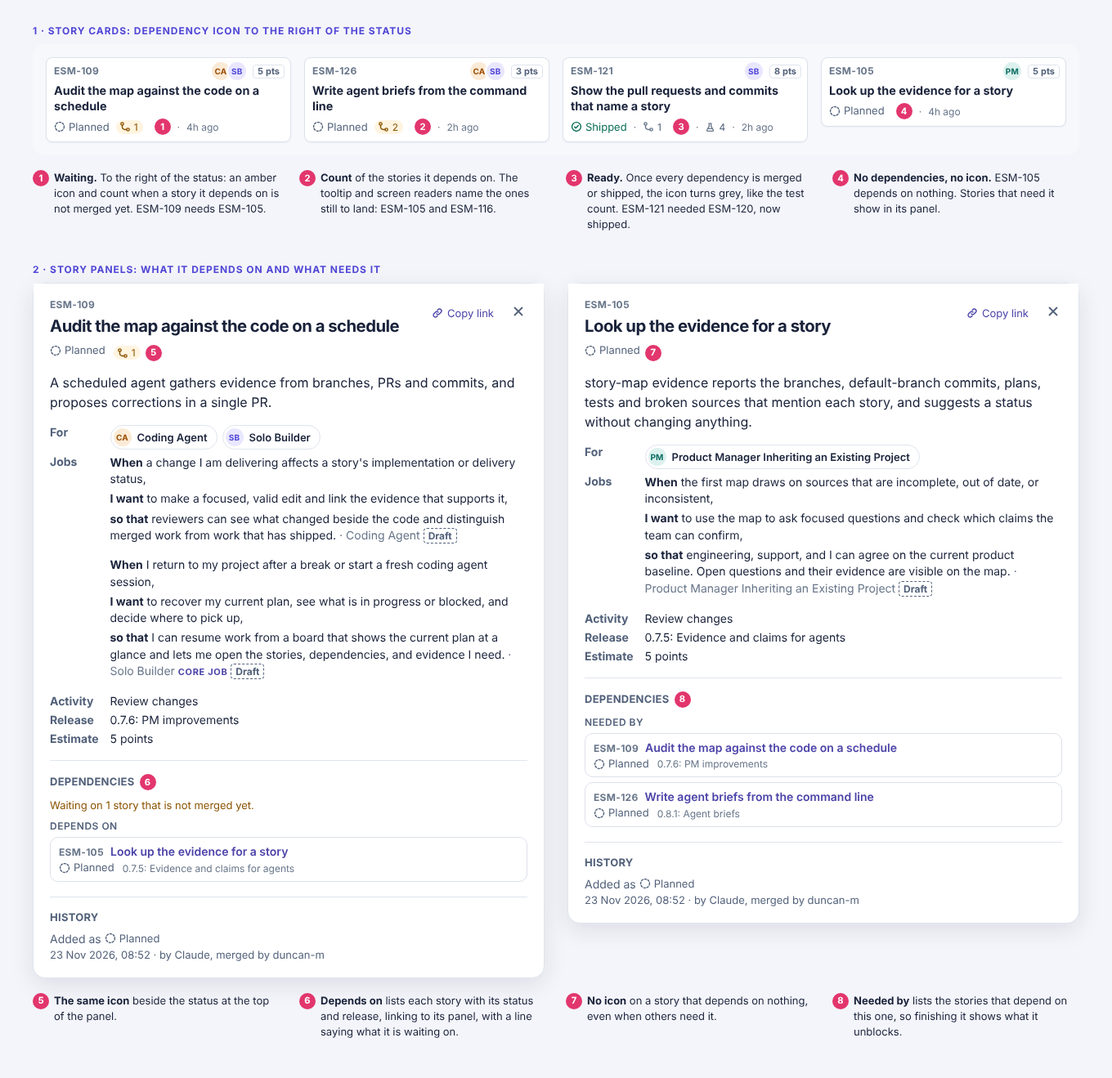
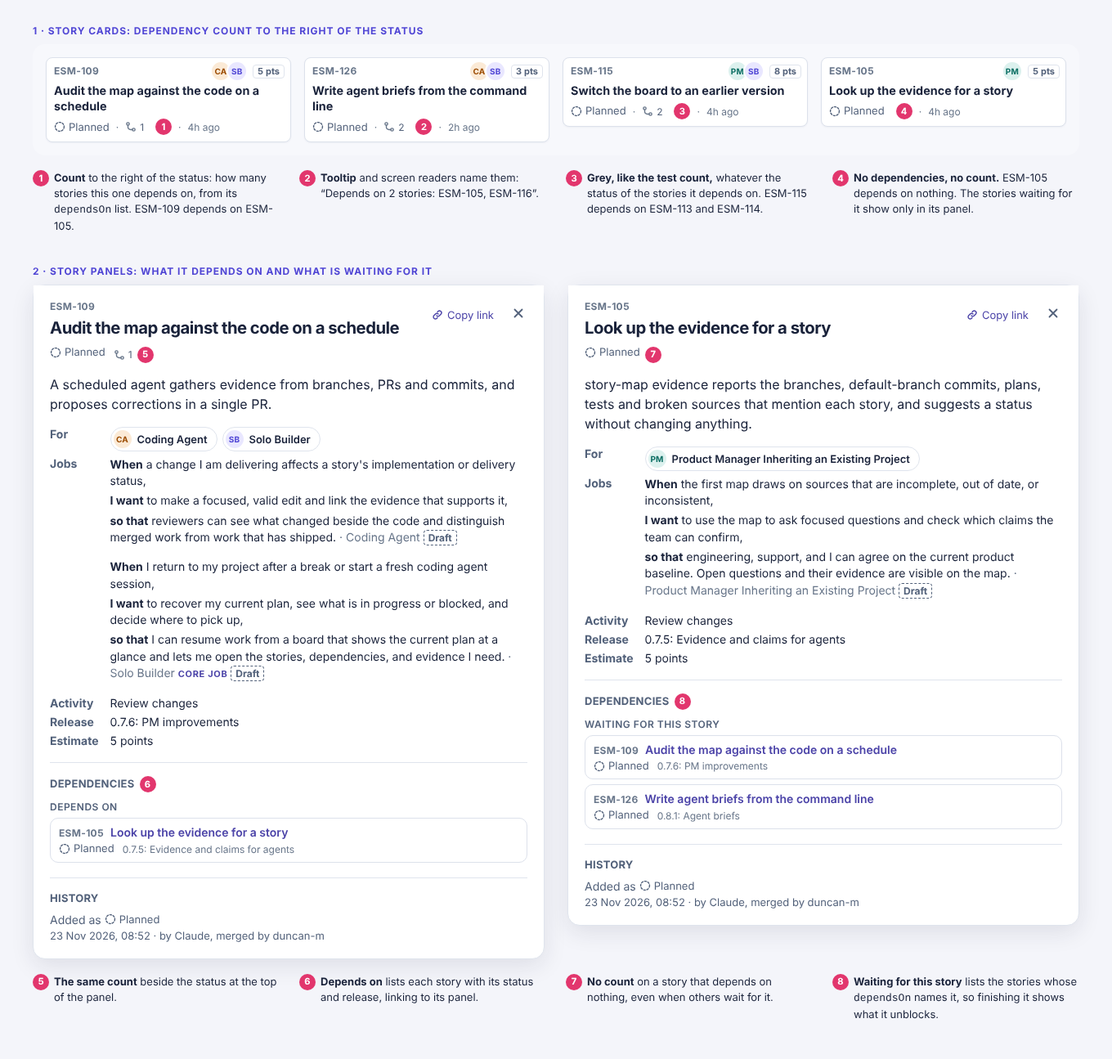
ESM-129: Record dependencies in a dependsOn field and show only the count on cards
Claude-Session: https://claude.ai/code/session_01Lq2MQRwBfoYbPH2uyBWXu4

diff --git a/docs/plans/story-dependencies-mockup.html b/docs/plans/story-dependencies-mockup.html
@@ -6,7 +6,7 @@
 <title>Story dependencies mockup</title>
 <!-- Static mockup for ESM-129 in docs/plans/story-dependencies.md. The board markup is the real board rendered from this
      product's map, history and tests index, with the Changes, Tests and Engineering sections left out of the panels. The dependency icon, the Dependencies section and their styles below are proposed.
-     The dependencies are real ones from the stories' notes and plans. -->
+     The dependencies are real ones from the stories' notes and plans, as a dependsOn field would record them. -->
 <link rel="stylesheet" href="../../styles.css">
 <style>
   body { margin: 0; padding: 32px 40px 48px; background: #f4f5fa; font-family: Inter, system-ui, -apple-system, "Segoe UI", sans-serif; }
@@ -26,11 +26,7 @@
   .esm-card-deps { display: inline-flex; align-items: center; gap: 4px; color: var(--esm-muted); font-size: .75rem; }
   .esm-card-meta .esm-card-deps::before { content: "·"; margin-right: 4px; color: var(--esm-faint); }
   .esm-card-deps .esm-icon { color: var(--esm-faint); }
-  .esm-card-deps[data-waiting] { padding: 1px 6px 1px 4px; border-radius: 999px; background: var(--esm-stalled-bg); color: var(--esm-stalled); }
-  .esm-card-deps[data-waiting] .esm-icon { color: currentColor; }
-  .esm-card-meta .esm-card-deps[data-waiting]::before { content: none; }
   .esm-detail > .esm-card-deps { margin-left: 10px; vertical-align: middle; }
-  .esm-deps-note { margin: 0 0 10px; color: var(--esm-stalled); font-size: .8125rem; }
   .esm-deps-heading { margin: 12px 0 6px; color: var(--esm-muted); font-size: .75rem; font-weight: 600; letter-spacing: .04em; text-transform: uppercase; }
   .esm-deps-heading:first-of-type { margin-top: 0; }
   .esm-deps-list { display: grid; gap: 6px; margin: 0; padding: 0; list-style: none; }
@@ -43,27 +39,27 @@
 </head>
 <body>
 <div class="mock-section">
-  <p class="mock-label">1 · Story cards: dependency icon to the right of the status</p>
-  <div class="mock-cards esm-board" data-theme="light"><div class="mock-card"><button type="button" class="esm-card" id="esm-story-ESM-109" aria-haspopup="dialog" popovertarget="_R_1a_-story-23"><span class="esm-card-head"><span class="esm-card-id">ESM-109</span><span class="esm-card-tags"><span class="esm-avatars" title="For Coding Agent and Solo Builder"><span class="esm-avatar" data-persona="2" aria-hidden="true">CA</span><span class="esm-avatar" data-persona="0" aria-hidden="true">SB</span><span class="esm-visually-hidden">For Coding Agent and Solo Builder</span></span><span class="esm-estimate" title="Estimate: 5 points"><span aria-hidden="true">5 pts</span><span class="esm-visually-hidden">Estimate: 5 points</span></span></span></span><span class="esm-card-title">Audit the map against the code on a schedule</span><span class="esm-card-meta"><span class="esm-status" data-status="planned"><svg class="esm-icon" width="14" height="14" viewBox="0 0 16 16" fill="none" stroke="currentColor" stroke-width="1.6" stroke-linecap="round" stroke-linejoin="round" aria-hidden="true"><circle cx="8" cy="8" r="6.2" stroke-dasharray="2.4 2.2"></circle></svg>Planned</span><span class="esm-card-deps" data-waiting="" title="Depends on 1 story. Waiting on ESM-105, not merged yet."><svg class="esm-icon" width="14" height="14" viewBox="0 0 16 16" fill="none" stroke="currentColor" stroke-width="1.6" stroke-linecap="round" stroke-linejoin="round" aria-hidden="true"><circle cx="4" cy="4" r="1.9"></circle><circle cx="12" cy="12" r="1.9"></circle><path d="M4 5.9v2.6A3.5 3.5 0 0 0 7.5 12h2.6"></path></svg><span aria-hidden="true">1</span><span class="esm-visually-hidden">Depends on 1 story. Waiting on ESM-105, not merged yet.</span></span><span class="mock-callout">1</span><time class="esm-changed" datetime="2026-11-23T08:52:14.000Z" title="23 Nov 2026, 08:52">4h ago</time></span></button></div><div class="mock-card"><button type="button" class="esm-card" id="esm-story-ESM-126" aria-haspopup="dialog" popovertarget="_R_1a_-story-79"><span class="esm-card-head"><span class="esm-card-id">ESM-126</span><span class="esm-card-tags"><span class="esm-avatars" title="For Coding Agent and Solo Builder"><span class="esm-avatar" data-persona="2" aria-hidden="true">CA</span><span class="esm-avatar" data-persona="0" aria-hidden="true">SB</span><span class="esm-visually-hidden">For Coding Agent and Solo Builder</span></span><span class="esm-estimate" title="Estimate: 3 points"><span aria-hidden="true">3 pts</span><span class="esm-visually-hidden">Estimate: 3 points</span></span></span></span><span class="esm-card-title">Write agent briefs from the command line</span><span class="esm-card-meta"><span class="esm-status" data-status="planned"><svg class="esm-icon" width="14" height="14" viewBox="0 0 16 16" fill="none" stroke="currentColor" stroke-width="1.6" stroke-linecap="round" stroke-linejoin="round" aria-hidden="true"><circle cx="8" cy="8" r="6.2" stroke-dasharray="2.4 2.2"></circle></svg>Planned</span><span class="esm-card-deps" data-waiting="" title="Depends on 2 stories. Waiting on ESM-105, ESM-116, not merged yet."><svg class="esm-icon" width="14" height="14" viewBox="0 0 16 16" fill="none" stroke="currentColor" stroke-width="1.6" stroke-linecap="round" stroke-linejoin="round" aria-hidden="true"><circle cx="4" cy="4" r="1.9"></circle><circle cx="12" cy="12" r="1.9"></circle><path d="M4 5.9v2.6A3.5 3.5 0 0 0 7.5 12h2.6"></path></svg><span aria-hidden="true">2</span><span class="esm-visually-hidden">Depends on 2 stories. Waiting on ESM-105, ESM-116, not merged yet.</span></span><span class="mock-callout">2</span><time class="esm-changed" datetime="2026-11-23T10:49:05.000Z" title="23 Nov 2026, 10:49">2h ago</time></span></button></div><div class="mock-card"><button type="button" class="esm-card" id="esm-story-ESM-121" aria-haspopup="dialog" popovertarget="_R_1a_-story-57"><span class="esm-card-head"><span class="esm-card-id">ESM-121</span><span class="esm-card-tags"><span class="esm-avatars" title="For Solo Builder"><span class="esm-avatar" data-persona="0" aria-hidden="true">SB</span><span class="esm-visually-hidden">For Solo Builder</span></span><span class="esm-estimate" title="Estimate: 8 points"><span aria-hidden="true">8 pts</span><span class="esm-visually-hidden">Estimate: 8 points</span></span></span></span><span class="esm-card-title">Show the pull requests and commits that name a story</span><span class="esm-card-meta"><span class="esm-status" data-status="shipped"><svg class="esm-icon" width="14" height="14" viewBox="0 0 16 16" fill="none" stroke="currentColor" stroke-width="1.6" stroke-linecap="round" stroke-linejoin="round" aria-hidden="true"><circle cx="8" cy="8" r="6.2"></circle><path d="m5.3 8.2 1.8 1.8 3.6-3.7"></path></svg>Shipped</span><span class="esm-card-deps" title="Depends on 1 story, all merged or shipped."><svg class="esm-icon" width="14" height="14" viewBox="0 0 16 16" fill="none" stroke="currentColor" stroke-width="1.6" stroke-linecap="round" stroke-linejoin="round" aria-hidden="true"><circle cx="4" cy="4" r="1.9"></circle><circle cx="12" cy="12" r="1.9"></circle><path d="M4 5.9v2.6A3.5 3.5 0 0 0 7.5 12h2.6"></path></svg><span aria-hidden="true">1</span><span class="esm-visually-hidden">Depends on 1 story, all merged or shipped.</span></span><span class="mock-callout">3</span><span class="esm-card-tests" title="4 tests"><svg class="esm-icon" width="13" height="13" viewBox="0 0 16 16" fill="none" stroke="currentColor" stroke-width="1.6" stroke-linecap="round" stroke-linejoin="round" aria-hidden="true"><path d="M6 2.5h4M6.6 2.5v4.2L3.2 12.4a1 1 0 0 0 .9 1.6h7.8a1 1 0 0 0 .9-1.6L9.4 6.7V2.5"></path><path d="M4.8 10.2h6.4"></path></svg><span aria-hidden="true">4</span><span class="esm-visually-hidden">4 tests</span></span><time class="esm-changed" datetime="2026-11-23T10:28:45.000Z" title="23 Nov 2026, 10:28">2h ago</time></span></button></div><div class="mock-card"><button type="button" class="esm-card" id="esm-story-ESM-105" aria-haspopup="dialog" popovertarget="_R_1a_-story-36"><span class="esm-card-head"><span class="esm-card-id">ESM-105</span><span class="esm-card-tags"><span class="esm-avatars" title="For Product Manager Inheriting an Existing Project"><span class="esm-avatar" data-persona="1" aria-hidden="true">PM</span><span class="esm-visually-hidden">For Product Manager Inheriting an Existing Project</span></span><span class="esm-estimate" title="Estimate: 5 points"><span aria-hidden="true">5 pts</span><span class="esm-visually-hidden">Estimate: 5 points</span></span></span></span><span class="esm-card-title">Look up the evidence for a story</span><span class="esm-card-meta"><span class="esm-status" data-status="planned"><svg class="esm-icon" width="14" height="14" viewBox="0 0 16 16" fill="none" stroke="currentColor" stroke-width="1.6" stroke-linecap="round" stroke-linejoin="round" aria-hidden="true"><circle cx="8" cy="8" r="6.2" stroke-dasharray="2.4 2.2"></circle></svg>Planned</span><span class="mock-callout">4</span><time class="esm-changed" datetime="2026-11-23T08:52:14.000Z" title="23 Nov 2026, 08:52">4h ago</time></span></button></div></div>
+  <p class="mock-label">1 · Story cards: dependency count to the right of the status</p>
+  <div class="mock-cards esm-board" data-theme="light"><div class="mock-card"><button type="button" class="esm-card" id="esm-story-ESM-109" aria-haspopup="dialog" popovertarget="_R_1a_-story-23"><span class="esm-card-head"><span class="esm-card-id">ESM-109</span><span class="esm-card-tags"><span class="esm-avatars" title="For Coding Agent and Solo Builder"><span class="esm-avatar" data-persona="2" aria-hidden="true">CA</span><span class="esm-avatar" data-persona="0" aria-hidden="true">SB</span><span class="esm-visually-hidden">For Coding Agent and Solo Builder</span></span><span class="esm-estimate" title="Estimate: 5 points"><span aria-hidden="true">5 pts</span><span class="esm-visually-hidden">Estimate: 5 points</span></span></span></span><span class="esm-card-title">Audit the map against the code on a schedule</span><span class="esm-card-meta"><span class="esm-status" data-status="planned"><svg class="esm-icon" width="14" height="14" viewBox="0 0 16 16" fill="none" stroke="currentColor" stroke-width="1.6" stroke-linecap="round" stroke-linejoin="round" aria-hidden="true"><circle cx="8" cy="8" r="6.2" stroke-dasharray="2.4 2.2"></circle></svg>Planned</span><span class="esm-card-deps" title="Depends on 1 story: ESM-105"><svg class="esm-icon" width="14" height="14" viewBox="0 0 16 16" fill="none" stroke="currentColor" stroke-width="1.6" stroke-linecap="round" stroke-linejoin="round" aria-hidden="true"><circle cx="4" cy="4" r="1.9"></circle><circle cx="12" cy="12" r="1.9"></circle><path d="M4 5.9v2.6A3.5 3.5 0 0 0 7.5 12h2.6"></path></svg><span aria-hidden="true">1</span><span class="esm-visually-hidden">Depends on 1 story: ESM-105</span></span><span class="mock-callout">1</span><time class="esm-changed" datetime="2026-11-23T08:52:14.000Z" title="23 Nov 2026, 08:52">4h ago</time></span></button></div><div class="mock-card"><button type="button" class="esm-card" id="esm-story-ESM-126" aria-haspopup="dialog" popovertarget="_R_1a_-story-79"><span class="esm-card-head"><span class="esm-card-id">ESM-126</span><span class="esm-card-tags"><span class="esm-avatars" title="For Coding Agent and Solo Builder"><span class="esm-avatar" data-persona="2" aria-hidden="true">CA</span><span class="esm-avatar" data-persona="0" aria-hidden="true">SB</span><span class="esm-visually-hidden">For Coding Agent and Solo Builder</span></span><span class="esm-estimate" title="Estimate: 3 points"><span aria-hidden="true">3 pts</span><span class="esm-visually-hidden">Estimate: 3 points</span></span></span></span><span class="esm-card-title">Write agent briefs from the command line</span><span class="esm-card-meta"><span class="esm-status" data-status="planned"><svg class="esm-icon" width="14" height="14" viewBox="0 0 16 16" fill="none" stroke="currentColor" stroke-width="1.6" stroke-linecap="round" stroke-linejoin="round" aria-hidden="true"><circle cx="8" cy="8" r="6.2" stroke-dasharray="2.4 2.2"></circle></svg>Planned</span><span class="esm-card-deps" title="Depends on 2 stories: ESM-105, ESM-116"><svg class="esm-icon" width="14" height="14" viewBox="0 0 16 16" fill="none" stroke="currentColor" stroke-width="1.6" stroke-linecap="round" stroke-linejoin="round" aria-hidden="true"><circle cx="4" cy="4" r="1.9"></circle><circle cx="12" cy="12" r="1.9"></circle><path d="M4 5.9v2.6A3.5 3.5 0 0 0 7.5 12h2.6"></path></svg><span aria-hidden="true">2</span><span class="esm-visually-hidden">Depends on 2 stories: ESM-105, ESM-116</span></span><span class="mock-callout">2</span><time class="esm-changed" datetime="2026-11-23T10:49:05.000Z" title="23 Nov 2026, 10:49">2h ago</time></span></button></div><div class="mock-card"><button type="button" class="esm-card" id="esm-story-ESM-115" aria-haspopup="dialog" popovertarget="_R_1a_-story-30"><span class="esm-card-head"><span class="esm-card-id">ESM-115</span><span class="esm-card-tags"><span class="esm-avatars" title="For Product Manager Inheriting an Existing Project and Solo Builder"><span class="esm-avatar" data-persona="1" aria-hidden="true">PM</span><span class="esm-avatar" data-persona="0" aria-hidden="true">SB</span><span class="esm-visually-hidden">For Product Manager Inheriting an Existing Project and Solo Builder</span></span><span class="esm-estimate" title="Estimate: 8 points"><span aria-hidden="true">8 pts</span><span class="esm-visually-hidden">Estimate: 8 points</span></span></span></span><span class="esm-card-title">Switch the board to an earlier version</span><span class="esm-card-meta"><span class="esm-status" data-status="planned"><svg class="esm-icon" width="14" height="14" viewBox="0 0 16 16" fill="none" stroke="currentColor" stroke-width="1.6" stroke-linecap="round" stroke-linejoin="round" aria-hidden="true"><circle cx="8" cy="8" r="6.2" stroke-dasharray="2.4 2.2"></circle></svg>Planned</span><span class="esm-card-deps" title="Depends on 2 stories: ESM-113, ESM-114"><svg class="esm-icon" width="14" height="14" viewBox="0 0 16 16" fill="none" stroke="currentColor" stroke-width="1.6" stroke-linecap="round" stroke-linejoin="round" aria-hidden="true"><circle cx="4" cy="4" r="1.9"></circle><circle cx="12" cy="12" r="1.9"></circle><path d="M4 5.9v2.6A3.5 3.5 0 0 0 7.5 12h2.6"></path></svg><span aria-hidden="true">2</span><span class="esm-visually-hidden">Depends on 2 stories: ESM-113, ESM-114</span></span><span class="mock-callout">3</span><time class="esm-changed" datetime="2026-11-23T08:52:14.000Z" title="23 Nov 2026, 08:52">4h ago</time></span></button></div><div class="mock-card"><button type="button" class="esm-card" id="esm-story-ESM-105" aria-haspopup="dialog" popovertarget="_R_1a_-story-36"><span class="esm-card-head"><span class="esm-card-id">ESM-105</span><span class="esm-card-tags"><span class="esm-avatars" title="For Product Manager Inheriting an Existing Project"><span class="esm-avatar" data-persona="1" aria-hidden="true">PM</span><span class="esm-visually-hidden">For Product Manager Inheriting an Existing Project</span></span><span class="esm-estimate" title="Estimate: 5 points"><span aria-hidden="true">5 pts</span><span class="esm-visually-hidden">Estimate: 5 points</span></span></span></span><span class="esm-card-title">Look up the evidence for a story</span><span class="esm-card-meta"><span class="esm-status" data-status="planned"><svg class="esm-icon" width="14" height="14" viewBox="0 0 16 16" fill="none" stroke="currentColor" stroke-width="1.6" stroke-linecap="round" stroke-linejoin="round" aria-hidden="true"><circle cx="8" cy="8" r="6.2" stroke-dasharray="2.4 2.2"></circle></svg>Planned</span><span class="mock-callout">4</span><time class="esm-changed" datetime="2026-11-23T08:52:14.000Z" title="23 Nov 2026, 08:52">4h ago</time></span></button></div></div>
   <ol class="mock-legend">
-    <li><span class="mock-callout">1</span><span><b>Waiting.</b> To the right of the status: an amber icon and count when a story it depends on is not merged yet. ESM-109 needs ESM-105.</span></li>
-    <li><span class="mock-callout">2</span><span><b>Count</b> of the stories it depends on. The tooltip and screen readers name the ones still to land: ESM-105 and ESM-116.</span></li>
-    <li><span class="mock-callout">3</span><span><b>Ready.</b> Once every dependency is merged or shipped, the icon turns grey, like the test count. ESM-121 needed ESM-120, now shipped.</span></li>
-    <li><span class="mock-callout">4</span><span><b>No dependencies, no icon.</b> ESM-105 depends on nothing. Stories that need it show in its panel.</span></li>
+    <li><span class="mock-callout">1</span><span><b>Count</b> to the right of the status: how many stories this one depends on, from its <code>dependsOn</code> list. ESM-109 depends on ESM-105.</span></li>
+    <li><span class="mock-callout">2</span><span><b>Tooltip</b> and screen readers name them: “Depends on 2 stories: ESM-105, ESM-116”.</span></li>
+    <li><span class="mock-callout">3</span><span><b>Grey, like the test count,</b> whatever the status of the stories it depends on. ESM-115 depends on ESM-113 and ESM-114.</span></li>
+    <li><span class="mock-callout">4</span><span><b>No dependencies, no count.</b> ESM-105 depends on nothing. The stories waiting for it show only in its panel.</span></li>
   </ol>
 </div>
 
 <div class="mock-section">
-  <p class="mock-label">2 · Story panels: what it depends on and what needs it</p>
+  <p class="mock-label">2 · Story panels: what it depends on and what is waiting for it</p>
   <div class="mock-pair esm-board" data-theme="light">
-    <div class="esm-detail" id="_R_1a_-story-23" role="dialog" aria-labelledby="_R_1a_-story-23-title"><div class="esm-detail-head"><div><p class="esm-card-id">ESM-109</p><h3 id="_R_1a_-story-23-title">Audit the map against the code on a schedule</h3></div><div class="esm-detail-actions"><a class="esm-copy-link" href="?view=internal&amp;story=ESM-109#esm-story-ESM-109" data-esm-copy-link="" title="Link to this story"><svg class="esm-icon" width="14" height="14" viewBox="0 0 16 16" fill="none" stroke="currentColor" stroke-width="1.6" stroke-linecap="round" stroke-linejoin="round" aria-hidden="true"><path d="M6.8 9.2a2.8 2.8 0 0 0 4 0l2-2a2.8 2.8 0 0 0-4-4l-.7.7M9.2 6.8a2.8 2.8 0 0 0-4 0l-2 2a2.8 2.8 0 0 0 4 4l.7-.7"></path></svg><span data-esm-copy-label="">Copy link</span><span class="esm-visually-hidden"> to this story</span></a><button type="button" class="esm-close" aria-label="Close" popovertarget="_R_1a_-story-23" popovertargetaction="hide"><svg class="esm-icon" width="18" height="18" viewBox="0 0 16 16" fill="none" stroke="currentColor" stroke-width="1.6" stroke-linecap="round" aria-hidden="true"><path d="m4 4 8 8M12 4l-8 8"></path></svg></button></div></div><span class="esm-status" data-status="planned"><svg class="esm-icon" width="14" height="14" viewBox="0 0 16 16" fill="none" stroke="currentColor" stroke-width="1.6" stroke-linecap="round" stroke-linejoin="round" aria-hidden="true"><circle cx="8" cy="8" r="6.2" stroke-dasharray="2.4 2.2"></circle></svg>Planned</span><span class="esm-card-deps" data-waiting="" title="Depends on 1 story. Waiting on ESM-105, not merged yet."><svg class="esm-icon" width="14" height="14" viewBox="0 0 16 16" fill="none" stroke="currentColor" stroke-width="1.6" stroke-linecap="round" stroke-linejoin="round" aria-hidden="true"><circle cx="4" cy="4" r="1.9"></circle><circle cx="12" cy="12" r="1.9"></circle><path d="M4 5.9v2.6A3.5 3.5 0 0 0 7.5 12h2.6"></path></svg><span aria-hidden="true">1</span><span class="esm-visually-hidden">Depends on 1 story. Waiting on ESM-105, not merged yet.</span></span><span class="mock-callout">5</span><p class="esm-detail-summary">A scheduled agent gathers evidence from branches, PRs and commits, and proposes corrections in a single PR.</p><dl class="esm-detail-context"><dt>For</dt><dd class="esm-persona-row"><button type="button" class="esm-persona-chip" aria-haspopup="dialog" popovertarget="_R_1a_-persona-2"><span class="esm-avatar" data-persona="2" aria-hidden="true">CA</span>Coding Agent</button><button type="button" class="esm-persona-chip" aria-haspopup="dialog" popovertarget="_R_1a_-persona-0"><span class="esm-avatar" data-persona="0" aria-hidden="true">SB</span>Solo Builder</button></dd><dt>Jobs</dt><dd><ul class="esm-story-jobs"><li><span class="esm-job-line"><b>When</b> a change I am delivering affects a story's implementation or delivery status,</span><span class="esm-job-line"><b>I want</b> to make a focused, valid edit and link the evidence that supports it,</span><b>so that</b> reviewers can see what changed beside the code and distinguish merged work from work that has shipped. <span class="esm-story-job-persona">· Coding Agent</span> <span class="esm-draft" title="Drafted by an agent and not yet confirmed">Draft</span></li><li><span class="esm-job-line"><b>When</b> I return to my project after a break or start a fresh coding agent session,</span><span class="esm-job-line"><b>I want</b> to recover my current plan, see what is in progress or blocked, and decide where to pick up,</span><b>so that</b> I can resume work from a board that shows the current plan at a glance and lets me open the stories, dependencies, and evidence I need. <span class="esm-story-job-persona">· Solo Builder</span> <span class="esm-core-label">Core job</span> <span class="esm-draft" title="Drafted by an agent and not yet confirmed">Draft</span></li></ul></dd><dt>Activity</dt><dd>Review changes</dd><dt>Release</dt><dd>0.7.6: PM improvements</dd><dt>Estimate</dt><dd>5 points</dd></dl><section class="esm-detail-section esm-deps" aria-labelledby="_R_1a_-story-23-deps"><h4 id="_R_1a_-story-23-deps">Dependencies<span class="mock-callout">6</span></h4><p class="esm-deps-note">Waiting on 1 story that is not merged yet.</p><h5 class="esm-deps-heading" id="_R_1a_-story-23-deps-on">Depends on</h5><ul class="esm-deps-list" aria-labelledby="_R_1a_-story-23-deps-on"><li><a class="esm-dep-link" href="?view=internal&amp;story=ESM-105#esm-story-ESM-105"><span class="esm-card-id">ESM-105</span><span class="esm-dep-title">Look up the evidence for a story</span></a><span class="esm-dep-meta"><span class="esm-status" data-status="planned"><svg class="esm-icon" width="14" height="14" viewBox="0 0 16 16" fill="none" stroke="currentColor" stroke-width="1.6" stroke-linecap="round" stroke-linejoin="round" aria-hidden="true"><circle cx="8" cy="8" r="6.2" stroke-dasharray="2.4 2.2"></circle></svg>Planned</span><span class="esm-dep-release">0.7.5: Evidence and claims for agents</span></span></li></ul></section><section class="esm-detail-section"><h4 id="_R_1a_-story-23-history">History</h4><ol class="esm-history" aria-labelledby="_R_1a_-story-23-history"><li><span class="esm-history-change">Added as <span class="esm-status" data-status="planned"><svg class="esm-icon" width="14" height="14" viewBox="0 0 16 16" fill="none" stroke="currentColor" stroke-width="1.6" stroke-linecap="round" stroke-linejoin="round" aria-hidden="true"><circle cx="8" cy="8" r="6.2" stroke-dasharray="2.4 2.2"></circle></svg>Planned</span></span><span class="esm-history-meta"><time datetime="2026-11-23T08:52:14.000Z">23 Nov 2026, 08:52</time> · by Claude, merged by duncan-m</span></li></ol></section></div>
-    <div class="esm-detail" id="_R_1a_-story-36" role="dialog" aria-labelledby="_R_1a_-story-36-title"><div class="esm-detail-head"><div><p class="esm-card-id">ESM-105</p><h3 id="_R_1a_-story-36-title">Look up the evidence for a story</h3></div><div class="esm-detail-actions"><a class="esm-copy-link" href="?view=internal&amp;story=ESM-105#esm-story-ESM-105" data-esm-copy-link="" title="Link to this story"><svg class="esm-icon" width="14" height="14" viewBox="0 0 16 16" fill="none" stroke="currentColor" stroke-width="1.6" stroke-linecap="round" stroke-linejoin="round" aria-hidden="true"><path d="M6.8 9.2a2.8 2.8 0 0 0 4 0l2-2a2.8 2.8 0 0 0-4-4l-.7.7M9.2 6.8a2.8 2.8 0 0 0-4 0l-2 2a2.8 2.8 0 0 0 4 4l.7-.7"></path></svg><span data-esm-copy-label="">Copy link</span><span class="esm-visually-hidden"> to this story</span></a><button type="button" class="esm-close" aria-label="Close" popovertarget="_R_1a_-story-36" popovertargetaction="hide"><svg class="esm-icon" width="18" height="18" viewBox="0 0 16 16" fill="none" stroke="currentColor" stroke-width="1.6" stroke-linecap="round" aria-hidden="true"><path d="m4 4 8 8M12 4l-8 8"></path></svg></button></div></div><span class="esm-status" data-status="planned"><svg class="esm-icon" width="14" height="14" viewBox="0 0 16 16" fill="none" stroke="currentColor" stroke-width="1.6" stroke-linecap="round" stroke-linejoin="round" aria-hidden="true"><circle cx="8" cy="8" r="6.2" stroke-dasharray="2.4 2.2"></circle></svg>Planned</span><span class="mock-callout">7</span><p class="esm-detail-summary">story-map evidence reports the branches, default-branch commits, plans, tests and broken sources that mention each story, and suggests a status without changing anything.</p><dl class="esm-detail-context"><dt>For</dt><dd class="esm-persona-row"><button type="button" class="esm-persona-chip" aria-haspopup="dialog" popovertarget="_R_1a_-persona-1"><span class="esm-avatar" data-persona="1" aria-hidden="true">PM</span>Product Manager Inheriting an Existing Project</button></dd><dt>Jobs</dt><dd><ul class="esm-story-jobs"><li><span class="esm-job-line"><b>When</b> the first map draws on sources that are incomplete, out of date, or inconsistent,</span><span class="esm-job-line"><b>I want</b> to use the map to ask focused questions and check which claims the team can confirm,</span><b>so that</b> engineering, support, and I can agree on the current product baseline. Open questions and their evidence are visible on the map. <span class="esm-story-job-persona">· Product Manager Inheriting an Existing Project</span> <span class="esm-draft" title="Drafted by an agent and not yet confirmed">Draft</span></li></ul></dd><dt>Activity</dt><dd>Review changes</dd><dt>Release</dt><dd>0.7.5: Evidence and claims for agents</dd><dt>Estimate</dt><dd>5 points</dd></dl><section class="esm-detail-section esm-deps" aria-labelledby="_R_1a_-story-36-deps"><h4 id="_R_1a_-story-36-deps">Dependencies<span class="mock-callout">8</span></h4><h5 class="esm-deps-heading" id="_R_1a_-story-36-deps-by">Needed by</h5><ul class="esm-deps-list" aria-labelledby="_R_1a_-story-36-deps-by"><li><a class="esm-dep-link" href="?view=internal&amp;story=ESM-109#esm-story-ESM-109"><span class="esm-card-id">ESM-109</span><span class="esm-dep-title">Audit the map against the code on a schedule</span></a><span class="esm-dep-meta"><span class="esm-status" data-status="planned"><svg class="esm-icon" width="14" height="14" viewBox="0 0 16 16" fill="none" stroke="currentColor" stroke-width="1.6" stroke-linecap="round" stroke-linejoin="round" aria-hidden="true"><circle cx="8" cy="8" r="6.2" stroke-dasharray="2.4 2.2"></circle></svg>Planned</span><span class="esm-dep-release">0.7.6: PM improvements</span></span></li><li><a class="esm-dep-link" href="?view=internal&amp;story=ESM-126#esm-story-ESM-126"><span class="esm-card-id">ESM-126</span><span class="esm-dep-title">Write agent briefs from the command line</span></a><span class="esm-dep-meta"><span class="esm-status" data-status="planned"><svg class="esm-icon" width="14" height="14" viewBox="0 0 16 16" fill="none" stroke="currentColor" stroke-width="1.6" stroke-linecap="round" stroke-linejoin="round" aria-hidden="true"><circle cx="8" cy="8" r="6.2" stroke-dasharray="2.4 2.2"></circle></svg>Planned</span><span class="esm-dep-release">0.8.1: Agent briefs</span></span></li></ul></section><section class="esm-detail-section"><h4 id="_R_1a_-story-36-history">History</h4><ol class="esm-history" aria-labelledby="_R_1a_-story-36-history"><li><span class="esm-history-change">Added as <span class="esm-status" data-status="planned"><svg class="esm-icon" width="14" height="14" viewBox="0 0 16 16" fill="none" stroke="currentColor" stroke-width="1.6" stroke-linecap="round" stroke-linejoin="round" aria-hidden="true"><circle cx="8" cy="8" r="6.2" stroke-dasharray="2.4 2.2"></circle></svg>Planned</span></span><span class="esm-history-meta"><time datetime="2026-11-23T08:52:14.000Z">23 Nov 2026, 08:52</time> · by Claude, merged by duncan-m</span></li></ol></section></div>
+    <div class="esm-detail" id="_R_1a_-story-23" role="dialog" aria-labelledby="_R_1a_-story-23-title"><div class="esm-detail-head"><div><p class="esm-card-id">ESM-109</p><h3 id="_R_1a_-story-23-title">Audit the map against the code on a schedule</h3></div><div class="esm-detail-actions"><a class="esm-copy-link" href="?view=internal&amp;story=ESM-109#esm-story-ESM-109" data-esm-copy-link="" title="Link to this story"><svg class="esm-icon" width="14" height="14" viewBox="0 0 16 16" fill="none" stroke="currentColor" stroke-width="1.6" stroke-linecap="round" stroke-linejoin="round" aria-hidden="true"><path d="M6.8 9.2a2.8 2.8 0 0 0 4 0l2-2a2.8 2.8 0 0 0-4-4l-.7.7M9.2 6.8a2.8 2.8 0 0 0-4 0l-2 2a2.8 2.8 0 0 0 4 4l.7-.7"></path></svg><span data-esm-copy-label="">Copy link</span><span class="esm-visually-hidden"> to this story</span></a><button type="button" class="esm-close" aria-label="Close" popovertarget="_R_1a_-story-23" popovertargetaction="hide"><svg class="esm-icon" width="18" height="18" viewBox="0 0 16 16" fill="none" stroke="currentColor" stroke-width="1.6" stroke-linecap="round" aria-hidden="true"><path d="m4 4 8 8M12 4l-8 8"></path></svg></button></div></div><span class="esm-status" data-status="planned"><svg class="esm-icon" width="14" height="14" viewBox="0 0 16 16" fill="none" stroke="currentColor" stroke-width="1.6" stroke-linecap="round" stroke-linejoin="round" aria-hidden="true"><circle cx="8" cy="8" r="6.2" stroke-dasharray="2.4 2.2"></circle></svg>Planned</span><span class="esm-card-deps" title="Depends on 1 story: ESM-105"><svg class="esm-icon" width="14" height="14" viewBox="0 0 16 16" fill="none" stroke="currentColor" stroke-width="1.6" stroke-linecap="round" stroke-linejoin="round" aria-hidden="true"><circle cx="4" cy="4" r="1.9"></circle><circle cx="12" cy="12" r="1.9"></circle><path d="M4 5.9v2.6A3.5 3.5 0 0 0 7.5 12h2.6"></path></svg><span aria-hidden="true">1</span><span class="esm-visually-hidden">Depends on 1 story: ESM-105</span></span><span class="mock-callout">5</span><p class="esm-detail-summary">A scheduled agent gathers evidence from branches, PRs and commits, and proposes corrections in a single PR.</p><dl class="esm-detail-context"><dt>For</dt><dd class="esm-persona-row"><button type="button" class="esm-persona-chip" aria-haspopup="dialog" popovertarget="_R_1a_-persona-2"><span class="esm-avatar" data-persona="2" aria-hidden="true">CA</span>Coding Agent</button><button type="button" class="esm-persona-chip" aria-haspopup="dialog" popovertarget="_R_1a_-persona-0"><span class="esm-avatar" data-persona="0" aria-hidden="true">SB</span>Solo Builder</button></dd><dt>Jobs</dt><dd><ul class="esm-story-jobs"><li><span class="esm-job-line"><b>When</b> a change I am delivering affects a story's implementation or delivery status,</span><span class="esm-job-line"><b>I want</b> to make a focused, valid edit and link the evidence that supports it,</span><b>so that</b> reviewers can see what changed beside the code and distinguish merged work from work that has shipped. <span class="esm-story-job-persona">· Coding Agent</span> <span class="esm-draft" title="Drafted by an agent and not yet confirmed">Draft</span></li><li><span class="esm-job-line"><b>When</b> I return to my project after a break or start a fresh coding agent session,</span><span class="esm-job-line"><b>I want</b> to recover my current plan, see what is in progress or blocked, and decide where to pick up,</span><b>so that</b> I can resume work from a board that shows the current plan at a glance and lets me open the stories, dependencies, and evidence I need. <span class="esm-story-job-persona">· Solo Builder</span> <span class="esm-core-label">Core job</span> <span class="esm-draft" title="Drafted by an agent and not yet confirmed">Draft</span></li></ul></dd><dt>Activity</dt><dd>Review changes</dd><dt>Release</dt><dd>0.7.6: PM improvements</dd><dt>Estimate</dt><dd>5 points</dd></dl><section class="esm-detail-section esm-deps" aria-labelledby="_R_1a_-story-23-deps"><h4 id="_R_1a_-story-23-deps">Dependencies<span class="mock-callout">6</span></h4><h5 class="esm-deps-heading" id="_R_1a_-story-23-deps-on">Depends on</h5><ul class="esm-deps-list" aria-labelledby="_R_1a_-story-23-deps-on"><li><a class="esm-dep-link" href="?view=internal&amp;story=ESM-105#esm-story-ESM-105"><span class="esm-card-id">ESM-105</span><span class="esm-dep-title">Look up the evidence for a story</span></a><span class="esm-dep-meta"><span class="esm-status" data-status="planned"><svg class="esm-icon" width="14" height="14" viewBox="0 0 16 16" fill="none" stroke="currentColor" stroke-width="1.6" stroke-linecap="round" stroke-linejoin="round" aria-hidden="true"><circle cx="8" cy="8" r="6.2" stroke-dasharray="2.4 2.2"></circle></svg>Planned</span><span class="esm-dep-release">0.7.5: Evidence and claims for agents</span></span></li></ul></section><section class="esm-detail-section"><h4 id="_R_1a_-story-23-history">History</h4><ol class="esm-history" aria-labelledby="_R_1a_-story-23-history"><li><span class="esm-history-change">Added as <span class="esm-status" data-status="planned"><svg class="esm-icon" width="14" height="14" viewBox="0 0 16 16" fill="none" stroke="currentColor" stroke-width="1.6" stroke-linecap="round" stroke-linejoin="round" aria-hidden="true"><circle cx="8" cy="8" r="6.2" stroke-dasharray="2.4 2.2"></circle></svg>Planned</span></span><span class="esm-history-meta"><time datetime="2026-11-23T08:52:14.000Z">23 Nov 2026, 08:52</time> · by Claude, merged by duncan-m</span></li></ol></section></div>
+    <div class="esm-detail" id="_R_1a_-story-36" role="dialog" aria-labelledby="_R_1a_-story-36-title"><div class="esm-detail-head"><div><p class="esm-card-id">ESM-105</p><h3 id="_R_1a_-story-36-title">Look up the evidence for a story</h3></div><div class="esm-detail-actions"><a class="esm-copy-link" href="?view=internal&amp;story=ESM-105#esm-story-ESM-105" data-esm-copy-link="" title="Link to this story"><svg class="esm-icon" width="14" height="14" viewBox="0 0 16 16" fill="none" stroke="currentColor" stroke-width="1.6" stroke-linecap="round" stroke-linejoin="round" aria-hidden="true"><path d="M6.8 9.2a2.8 2.8 0 0 0 4 0l2-2a2.8 2.8 0 0 0-4-4l-.7.7M9.2 6.8a2.8 2.8 0 0 0-4 0l-2 2a2.8 2.8 0 0 0 4 4l.7-.7"></path></svg><span data-esm-copy-label="">Copy link</span><span class="esm-visually-hidden"> to this story</span></a><button type="button" class="esm-close" aria-label="Close" popovertarget="_R_1a_-story-36" popovertargetaction="hide"><svg class="esm-icon" width="18" height="18" viewBox="0 0 16 16" fill="none" stroke="currentColor" stroke-width="1.6" stroke-linecap="round" aria-hidden="true"><path d="m4 4 8 8M12 4l-8 8"></path></svg></button></div></div><span class="esm-status" data-status="planned"><svg class="esm-icon" width="14" height="14" viewBox="0 0 16 16" fill="none" stroke="currentColor" stroke-width="1.6" stroke-linecap="round" stroke-linejoin="round" aria-hidden="true"><circle cx="8" cy="8" r="6.2" stroke-dasharray="2.4 2.2"></circle></svg>Planned</span><span class="mock-callout">7</span><p class="esm-detail-summary">story-map evidence reports the branches, default-branch commits, plans, tests and broken sources that mention each story, and suggests a status without changing anything.</p><dl class="esm-detail-context"><dt>For</dt><dd class="esm-persona-row"><button type="button" class="esm-persona-chip" aria-haspopup="dialog" popovertarget="_R_1a_-persona-1"><span class="esm-avatar" data-persona="1" aria-hidden="true">PM</span>Product Manager Inheriting an Existing Project</button></dd><dt>Jobs</dt><dd><ul class="esm-story-jobs"><li><span class="esm-job-line"><b>When</b> the first map draws on sources that are incomplete, out of date, or inconsistent,</span><span class="esm-job-line"><b>I want</b> to use the map to ask focused questions and check which claims the team can confirm,</span><b>so that</b> engineering, support, and I can agree on the current product baseline. Open questions and their evidence are visible on the map. <span class="esm-story-job-persona">· Product Manager Inheriting an Existing Project</span> <span class="esm-draft" title="Drafted by an agent and not yet confirmed">Draft</span></li></ul></dd><dt>Activity</dt><dd>Review changes</dd><dt>Release</dt><dd>0.7.5: Evidence and claims for agents</dd><dt>Estimate</dt><dd>5 points</dd></dl><section class="esm-detail-section esm-deps" aria-labelledby="_R_1a_-story-36-deps"><h4 id="_R_1a_-story-36-deps">Dependencies<span class="mock-callout">8</span></h4><h5 class="esm-deps-heading" id="_R_1a_-story-36-deps-by">Waiting for this story</h5><ul class="esm-deps-list" aria-labelledby="_R_1a_-story-36-deps-by"><li><a class="esm-dep-link" href="?view=internal&amp;story=ESM-109#esm-story-ESM-109"><span class="esm-card-id">ESM-109</span><span class="esm-dep-title">Audit the map against the code on a schedule</span></a><span class="esm-dep-meta"><span class="esm-status" data-status="planned"><svg class="esm-icon" width="14" height="14" viewBox="0 0 16 16" fill="none" stroke="currentColor" stroke-width="1.6" stroke-linecap="round" stroke-linejoin="round" aria-hidden="true"><circle cx="8" cy="8" r="6.2" stroke-dasharray="2.4 2.2"></circle></svg>Planned</span><span class="esm-dep-release">0.7.6: PM improvements</span></span></li><li><a class="esm-dep-link" href="?view=internal&amp;story=ESM-126#esm-story-ESM-126"><span class="esm-card-id">ESM-126</span><span class="esm-dep-title">Write agent briefs from the command line</span></a><span class="esm-dep-meta"><span class="esm-status" data-status="planned"><svg class="esm-icon" width="14" height="14" viewBox="0 0 16 16" fill="none" stroke="currentColor" stroke-width="1.6" stroke-linecap="round" stroke-linejoin="round" aria-hidden="true"><circle cx="8" cy="8" r="6.2" stroke-dasharray="2.4 2.2"></circle></svg>Planned</span><span class="esm-dep-release">0.8.1: Agent briefs</span></span></li></ul></section><section class="esm-detail-section"><h4 id="_R_1a_-story-36-history">History</h4><ol class="esm-history" aria-labelledby="_R_1a_-story-36-history"><li><span class="esm-history-change">Added as <span class="esm-status" data-status="planned"><svg class="esm-icon" width="14" height="14" viewBox="0 0 16 16" fill="none" stroke="currentColor" stroke-width="1.6" stroke-linecap="round" stroke-linejoin="round" aria-hidden="true"><circle cx="8" cy="8" r="6.2" stroke-dasharray="2.4 2.2"></circle></svg>Planned</span></span><span class="esm-history-meta"><time datetime="2026-11-23T08:52:14.000Z">23 Nov 2026, 08:52</time> · by Claude, merged by duncan-m</span></li></ol></section></div>
   </div>
   <ol class="mock-legend">
-    <li><span class="mock-callout">5</span><span><b>The same icon</b> beside the status at the top of the panel.</span></li>
-    <li><span class="mock-callout">6</span><span><b>Depends on</b> lists each story with its status and release, linking to its panel, with a line saying what it is waiting on.</span></li>
-    <li><span class="mock-callout">7</span><span><b>No icon</b> on a story that depends on nothing, even when others need it.</span></li>
-    <li><span class="mock-callout">8</span><span><b>Needed by</b> lists the stories that depend on this one, so finishing it shows what it unblocks.</span></li>
+    <li><span class="mock-callout">5</span><span><b>The same count</b> beside the status at the top of the panel.</span></li>
+    <li><span class="mock-callout">6</span><span><b>Depends on</b> lists each story with its status and release, linking to its panel.</span></li>
+    <li><span class="mock-callout">7</span><span><b>No count</b> on a story that depends on nothing, even when others wait for it.</span></li>
+    <li><span class="mock-callout">8</span><span><b>Waiting for this story</b> lists the stories whose <code>dependsOn</code> names it, so finishing it shows what it unblocks.</span></li>
   </ol>
 </div>
 </body>

diff --git a/docs/plans/story-dependencies.md b/docs/plans/story-dependencies.md
@@ -14,16 +14,29 @@ The mockup is [story-dependencies-mockup.html](story-dependencies-mockup.html), 
 
 What it shows:
 
-1. **Waiting.** To the right of the status, an amber icon and count when a story it depends on is not merged yet.
-2. **Count** of the stories it depends on. The tooltip and screen readers name the ones still to land.
-3. **Ready.** Once every dependency is merged or shipped, the icon turns grey, like the test count.
-4. **No dependencies, no icon.** Stories that need it show in its panel instead.
-5. **The same icon** beside the status at the top of the story panel.
-6. **Depends on** lists each story with its status and release, linking to its panel, with a line saying what it is waiting on.
-7. **No icon** on a story that depends on nothing, even when others need it.
-8. **Needed by** lists the stories that depend on this one, so finishing it shows what it unblocks.
+1. **Count** to the right of the status on each card: how many stories this one depends on.
+2. **Tooltip** and screen readers name them, such as “Depends on 2 stories: ESM-105, ESM-116”.
+3. **Grey, like the test count,** whatever the status of the stories it depends on. The card shows only the count.
+4. **No dependencies, no count.** The stories waiting for a story show only in its panel.
+5. **The same count** beside the status at the top of the story panel.
+6. **Depends on** lists each story with its status and release, linking to its panel.
+7. **No count** on a story that depends on nothing, even when others wait for it.
+8. **Waiting for this story** lists the stories whose `dependsOn` names this one, so finishing it shows what it unblocks.
+
+## Record dependencies in the map
+
+Each story gets an optional `dependsOn` list of story IDs in the schema:
+
+```yaml
+  - id: ESM-109
+    title: Audit the map against the code on a schedule
+    dependsOn:
+      - ESM-105
+```
+
+Validate rejects an ID that is not in the map, a story that depends on itself and a cycle. The board works out the stories waiting for each story from these lists, so nothing is recorded twice. Existing “Needs ESM-…” notes move into `dependsOn` in the same PR.
 
 ## Open questions
 
-- **Where dependencies are recorded:** a new `dependsOn` list of story IDs, which validate can check, or IDs read from the notes, which needs no schema change but cannot tell “needs” from a passing mention.
-- **Cut and blocked dependencies:** whether a story that depends on a cut story should warn in validate.
+- **Cut dependencies:** whether validate should warn when a story depends on a cut story.
+- **Edit and add:** whether `story-map edit` and `add` get `--add-dependency` and `--remove-dependency` in this story or later.
